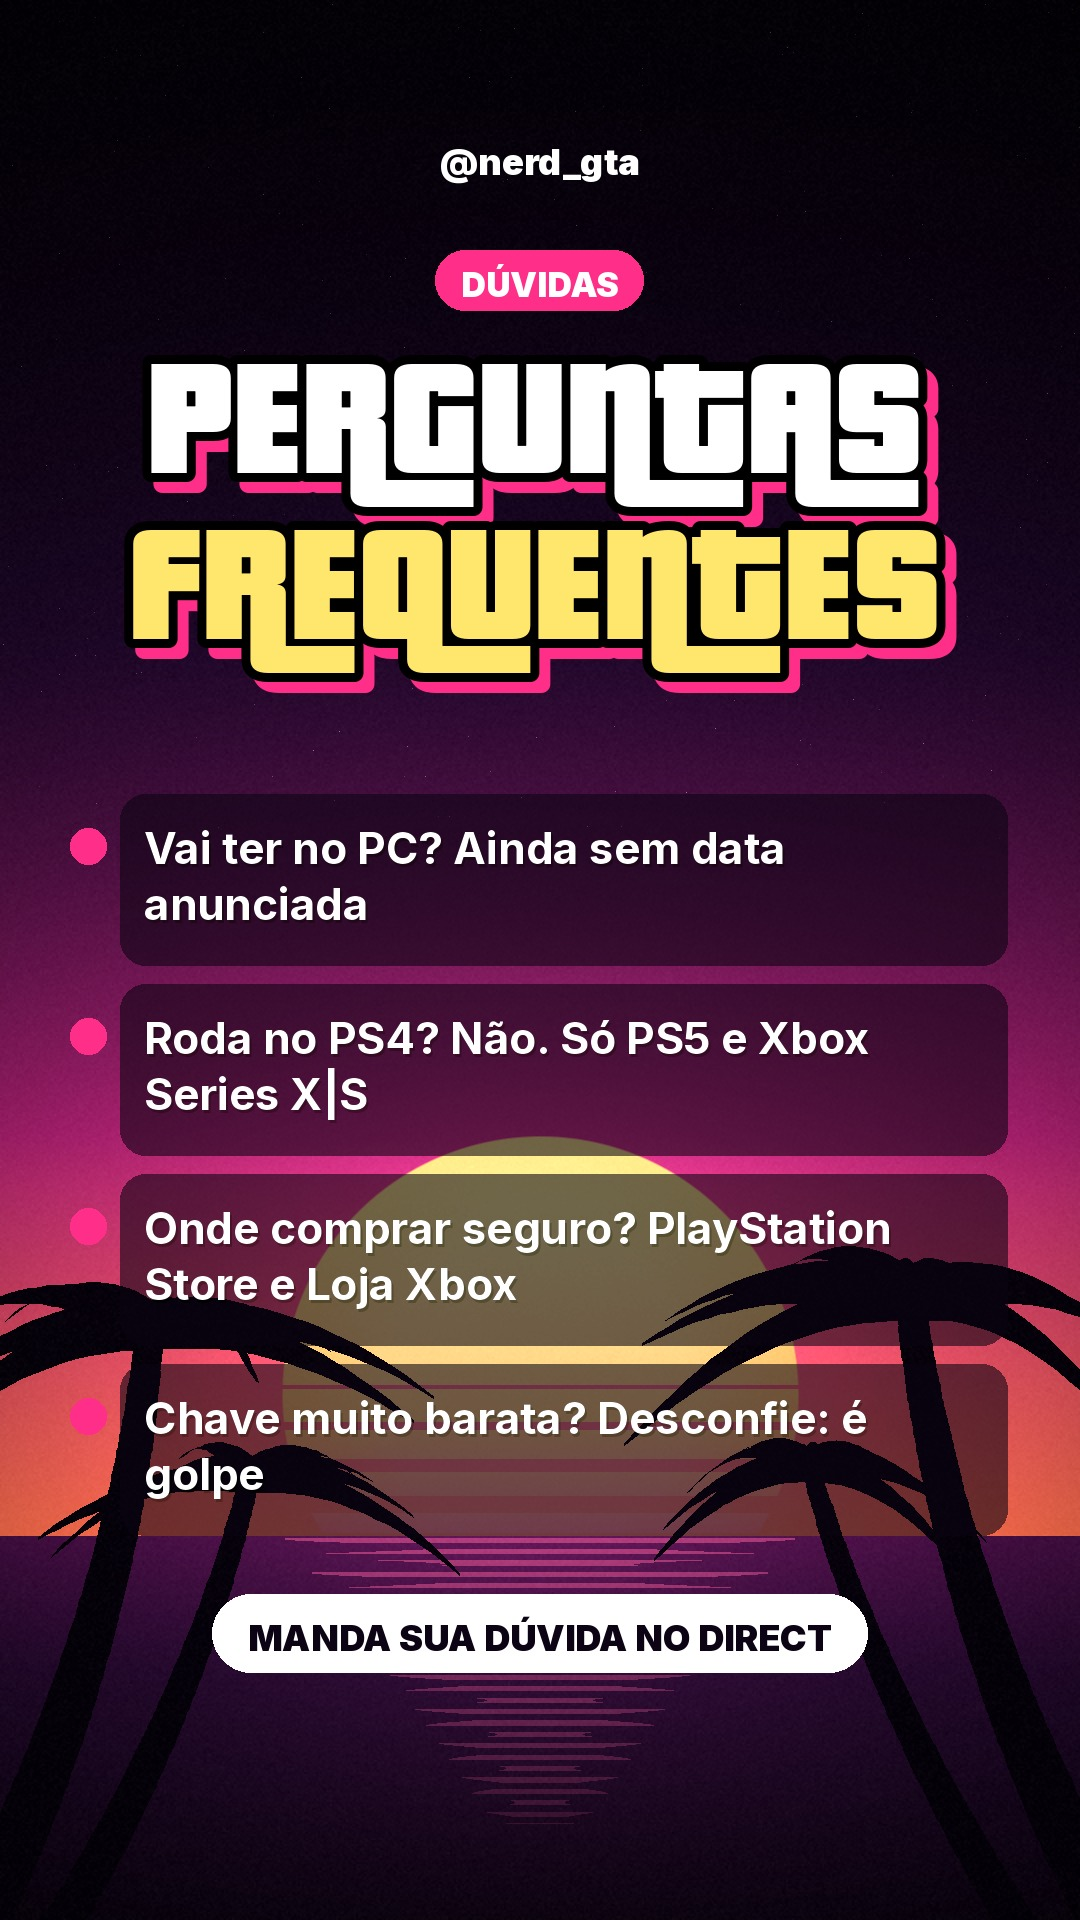
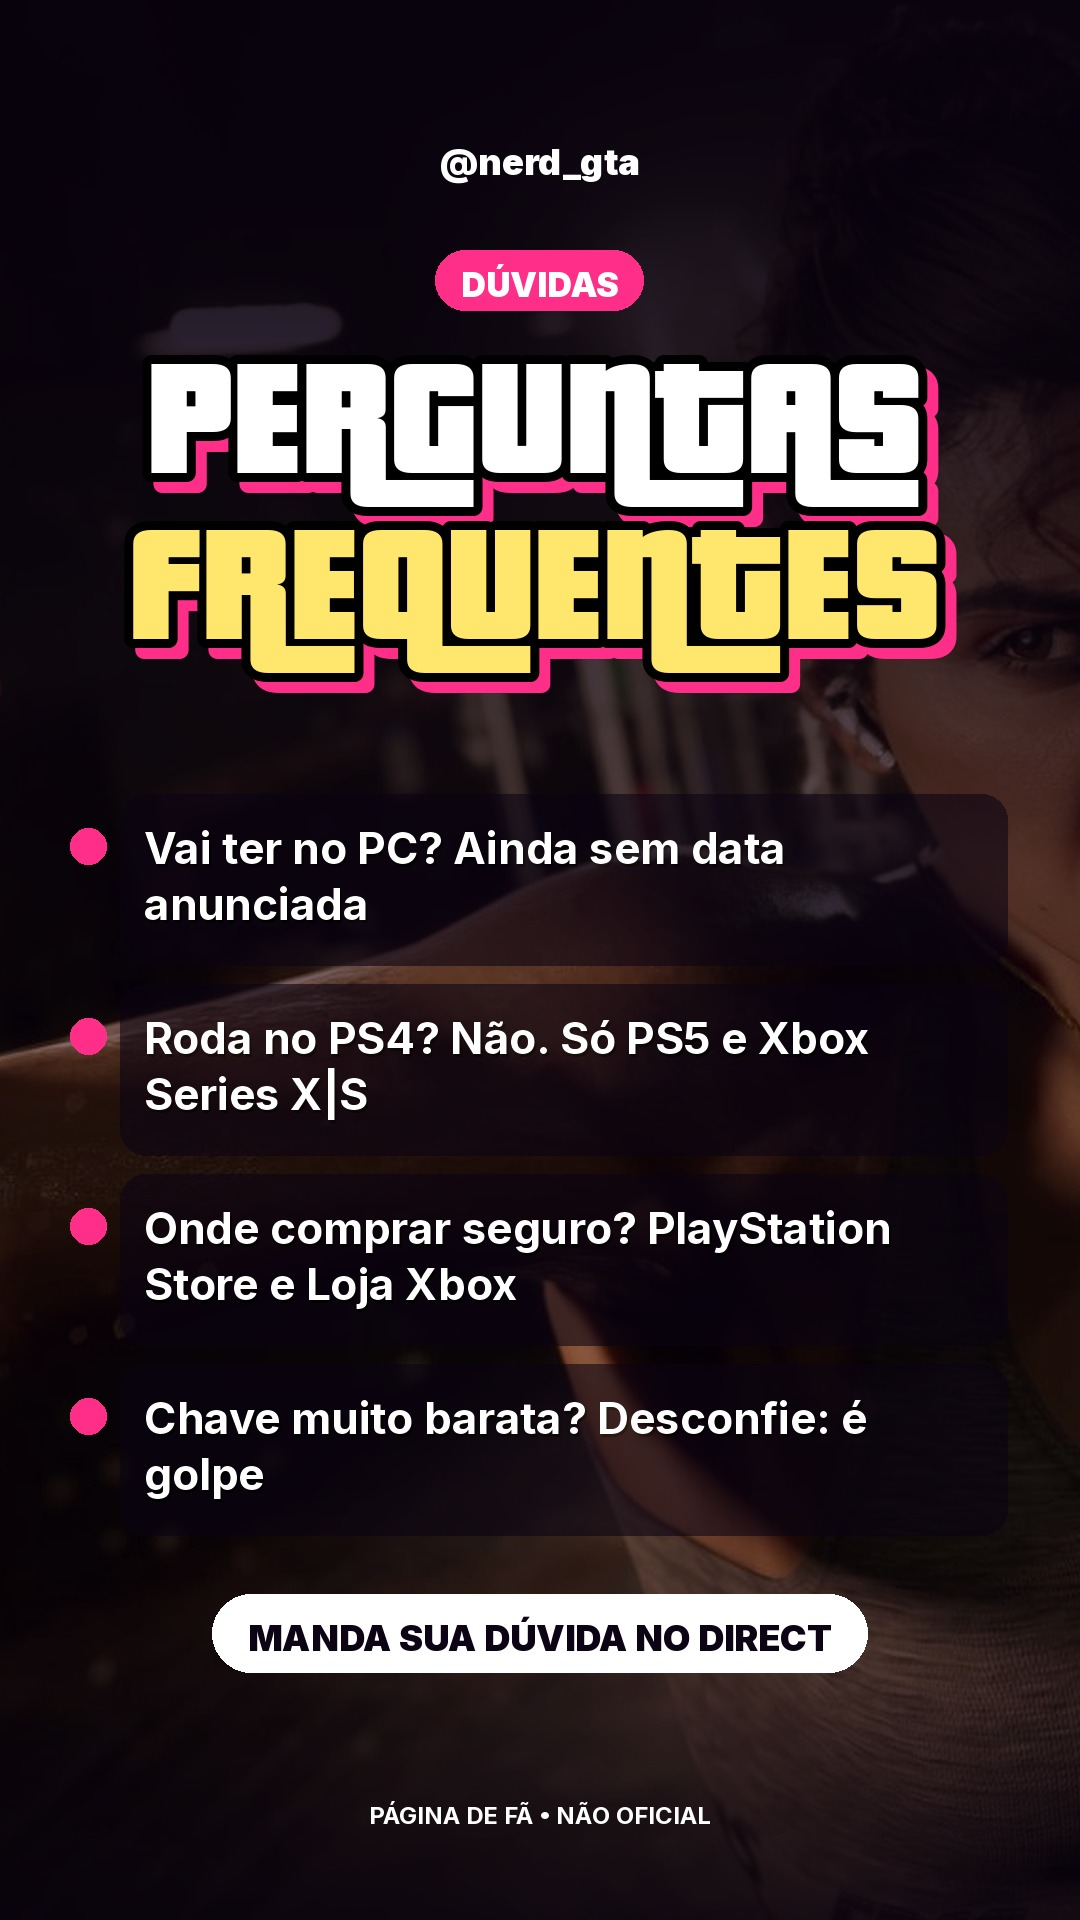
GTA 6: destaques com imagens oficiais
Claude-Session: https://claude.ai/code/session_0162u5fSJrH3qZtaNCqdGN6X

diff --git a/gta6/fabrica/destaques.py b/gta6/fabrica/destaques.py
@@ -12,31 +12,32 @@ SAIDA.mkdir(exist_ok=True)
 W, H = 1080, 1920
 
 DESTAQUES = [
-    {"id": "1-vip", "icone": "VIP", "nome": "GRUPO VIP", "titulo": ["GRUPO VIP", "NO WHATSAPP"],
+    {"id": "1-vip", "foto": "gta6/banco/oficial/arte-jason-and-lucia-rooftop.jpg", "icone": "VIP", "nome": "GRUPO VIP", "titulo": ["GRUPO VIP", "NO WHATSAPP"],
      "itens": ["Ofertas de PS5, Xbox e acessórios todo dia", "Alerta de golpe antes de você comprar",
                "Dicas do GTA 6 antes de todo mundo", "Grátis. Sai quando quiser"],
      "cta": "ENTRA PELO LINK DA BIO"},
-    {"id": "2-guia", "icone": "GUIA", "nome": "GUIA", "titulo": ["O GUIA DO", "GTA 6 EM PT-BR"],
+    {"id": "2-guia", "foto": "gta6/banco/oficial/lugar-vice-city-03.jpg", "icone": "GUIA", "nome": "GUIA", "titulo": ["O GUIA DO", "GTA 6 EM PT-BR"],
      "itens": ["Primeiras horas sem se perder", "Como fazer dinheiro rápido",
                "Veículos e lugares escondidos de Leonida", "Lista de espera com preço de lançamento"],
      "cta": "LISTA DE ESPERA NO LINK DA BIO"},
-    {"id": "3-dia19", "icone": "19", "nome": "DIA 19", "titulo": ["19/11", "À MEIA-NOITE"],
+    {"id": "3-dia19", "foto": "gta6/banco/oficial/lugar-vice-city-07.jpg", "icone": "19", "nome": "DIA 19", "titulo": ["19/11", "À MEIA-NOITE"],
      "itens": ["Libera à 0h no horário local. No Brasil, 0h de 19/11",
+               "Pré-download já liberado pra quem comprou digital",
                "Só PS5 e Xbox Series X|S. PC sem data",
                "Standard R$ 449,90 · Ultimate R$ 549,90",
                "Pré-venda até 20/11: Pacote Vintage Vice City + 1 mês de GTA+"],
      "cta": "ATIVA AS NOTIFICAÇÕES"},
-    {"id": "4-ofertas", "icone": "$", "nome": "OFERTAS", "titulo": ["MONTE SEU", "SETUP"],
+    {"id": "4-ofertas", "foto": "gta6/banco/oficial/arte-jason-and-lucia-robbery.jpg", "icone": "$", "nome": "OFERTAS", "titulo": ["MONTE SEU", "SETUP"],
      "itens": ["Console, controle extra e headset", "Armazenamento extra pro jogo",
                "Cartão presente PSN e Xbox", "As melhores ofertas saem primeiro no grupo VIP"],
      "cta": "OFERTAS NO LINK DA BIO"},
-    {"id": "5-faq", "icone": "?", "nome": "DÚVIDAS", "titulo": ["PERGUNTAS", "FREQUENTES"],
+    {"id": "5-faq", "foto": "gta6/banco/oficial/pessoa-lucia-caminos-01.jpg", "icone": "?", "nome": "DÚVIDAS", "titulo": ["PERGUNTAS", "FREQUENTES"],
      "itens": ["Vai ter no PC? Ainda sem data anunciada",
                "Roda no PS4? Não. Só PS5 e Xbox Series X|S",
                "Onde comprar seguro? PlayStation Store e Loja Xbox",
                "Chave muito barata? Desconfie: é golpe"],
      "cta": "MANDA SUA DÚVIDA NO DIRECT"},
-    {"id": "6-sobre", "icone": "@", "nome": "SOBRE", "titulo": ["NERD", "GTA"],
+    {"id": "6-sobre", "foto": "gta6/banco/oficial/lugar-leonida-keys-01.jpg", "icone": "@", "nome": "SOBRE", "titulo": ["NERD", "GTA"],
      "itens": ["Tudo do GTA 6 em português", "Notícias com fonte, dicas e humor todo dia",
                "Comunidade de quem vai jogar no Brasil",
                "Página de fã, sem vínculo com a Rockstar Games"],
@@ -44,40 +45,57 @@ DESTAQUES = [
 ]
 
 
+import numpy as np
+
+
+def _foto(d, escurecer, extra):
+    img = g._fundo_foto(g.RAIZ.parent / d["foto"], W, H, escurecer, d.get("foco", 0.5))
+    if extra:
+        img.alpha_composite(Image.new("RGBA", (W, H), (8, 2, 14, extra)))
+    return img
+
+
 def capa(d):
-    img = Image.fromarray(g.Cena(W, H, horizonte=0.74, sol=0.30, escurecer=0.6, grao=2).render(0.5)).convert("RGBA")
-    camada = Image.new("RGBA", (W, H), (0, 0, 0, 0))
-    dr = ImageDraw.Draw(camada)
-    r = 300
-    cx, cy = W // 2, H // 2
-    for i in range(r, 0, -2):  # disco em degradê magenta → laranja
-        k = i / r
-        cor = tuple(int(a * k + b * (1 - k)) for a, b in zip(g.C["magenta"], g.C["laranja"]))
-        dr.ellipse([cx - i, cy - i, cx + i, cy + i], fill=cor + (255,))
-    dr.ellipse([cx - r, cy - r, cx + r, cy + r], outline=(255, 255, 255, 255), width=10)
-    img.alpha_composite(camada)
-    t = g.bloco_titulo([d["icone"]], int(r * 1.45), tam=260, tam_min=90, altura_max=int(r * 1.2))
+    """Foto oficial em tela cheia; o círculo central (o que o Instagram mostra) leva ícone com aro neon."""
+    img = _foto(d, 0.2, 70)
+    cx, cy, r = W // 2, H // 2, 330
+    mask = Image.new("L", (W, H), 0)
+    ImageDraw.Draw(mask).ellipse([cx - r, cy - r, cx + r, cy + r], fill=255)
+    escuro = Image.new("RGBA", (W, H), (8, 2, 14, 0))
+    escuro.putalpha(mask.point(lambda v: 95 if v else 0))
+    img.alpha_composite(escuro)
+    aro = Image.new("RGBA", (W, H), (0, 0, 0, 0))
+    da = ImageDraw.Draw(aro)
+    for i, a in [(30, 40), (20, 80), (12, 140)]:
+        da.ellipse([cx - r - i, cy - r - i, cx + r + i, cy + r + i], outline=g.C["magenta"] + (a,), width=6)
+    da.ellipse([cx - r, cy - r, cx + r, cy + r], outline=(255, 255, 255, 255), width=12)
+    img.alpha_composite(aro)
+    t = g.bloco_titulo([d["icone"]], int(r * 1.5), tam=(420 if len(d["icone"]) == 1 else 280), tam_min=90, altura_max=int(r * (1.45 if len(d["icone"]) == 1 else 1.15)))
     g.colar(img, t, cx - t.width / 2, cy - t.height / 2 + 6)
     img.convert("RGB").save(SAIDA / f"capa_{d['id']}.jpg", quality=92)
 
 
 def story(d):
-    img = Image.fromarray(g.Cena(W, H, horizonte=0.80, sol=0.24, escurecer=0.7, grao=2).render(0.2)).convert("RGBA")
+    img = _foto(d, 0.9, 105)
     y = 250
     p = g.pilula(d["nome"], 34)
     g.colar(img, p, (W - p.width) / 2, y); y += p.height + 40
     t = g.bloco_titulo(d["titulo"], W - 140, tam=170, destaque=[1])
     g.colar(img, t, (W - t.width) / 2, y); y += t.height + 50
+    tam_it = 44 if len(d["itens"]) <= 4 else 40
     for it in d["itens"]:
-        b = g.bloco_texto("✓  " + it if False else it, W - 240, 44, "700", alinhar="left")
+        b = g.bloco_texto(it, W - 240, tam_it, "700", alinhar="left")
         dr = ImageDraw.Draw(img)
         dr.ellipse([70, y + 34, 106, y + 70], fill=g.C["magenta"] + (255,))
         g.colar(img, b, 120, y); y += b.height + 18
     c = g.pilula(d["cta"], 36, fundo=(255, 255, 255), cor=(12, 4, 20), pad=(36, 22))
-    g.colar(img, c, (W - c.width) / 2, max(y + 40, 1480))
+    g.colar(img, c, (W - c.width) / 2, min(max(y + 40, 1480), H - 150 - c.height - 40))
     dr = ImageDraw.Draw(img)
     f = g.ft(g.INTER["900"], 36)
     dr.text(((W - f.getlength(g.CFG["handle"])) / 2, 140), g.CFG["handle"], font=f, fill=(255, 255, 255, 230))
+    f2 = g.ft(g.INTER["700"], 24)
+    aviso = "PÁGINA DE FÃ • NÃO OFICIAL"
+    dr.text(((W - f2.getlength(aviso)) / 2, H - 120), aviso, font=f2, fill=(255, 255, 255, 170))
     img.convert("RGB").save(SAIDA / f"story_{d['id']}.jpg", quality=92)
 
 
